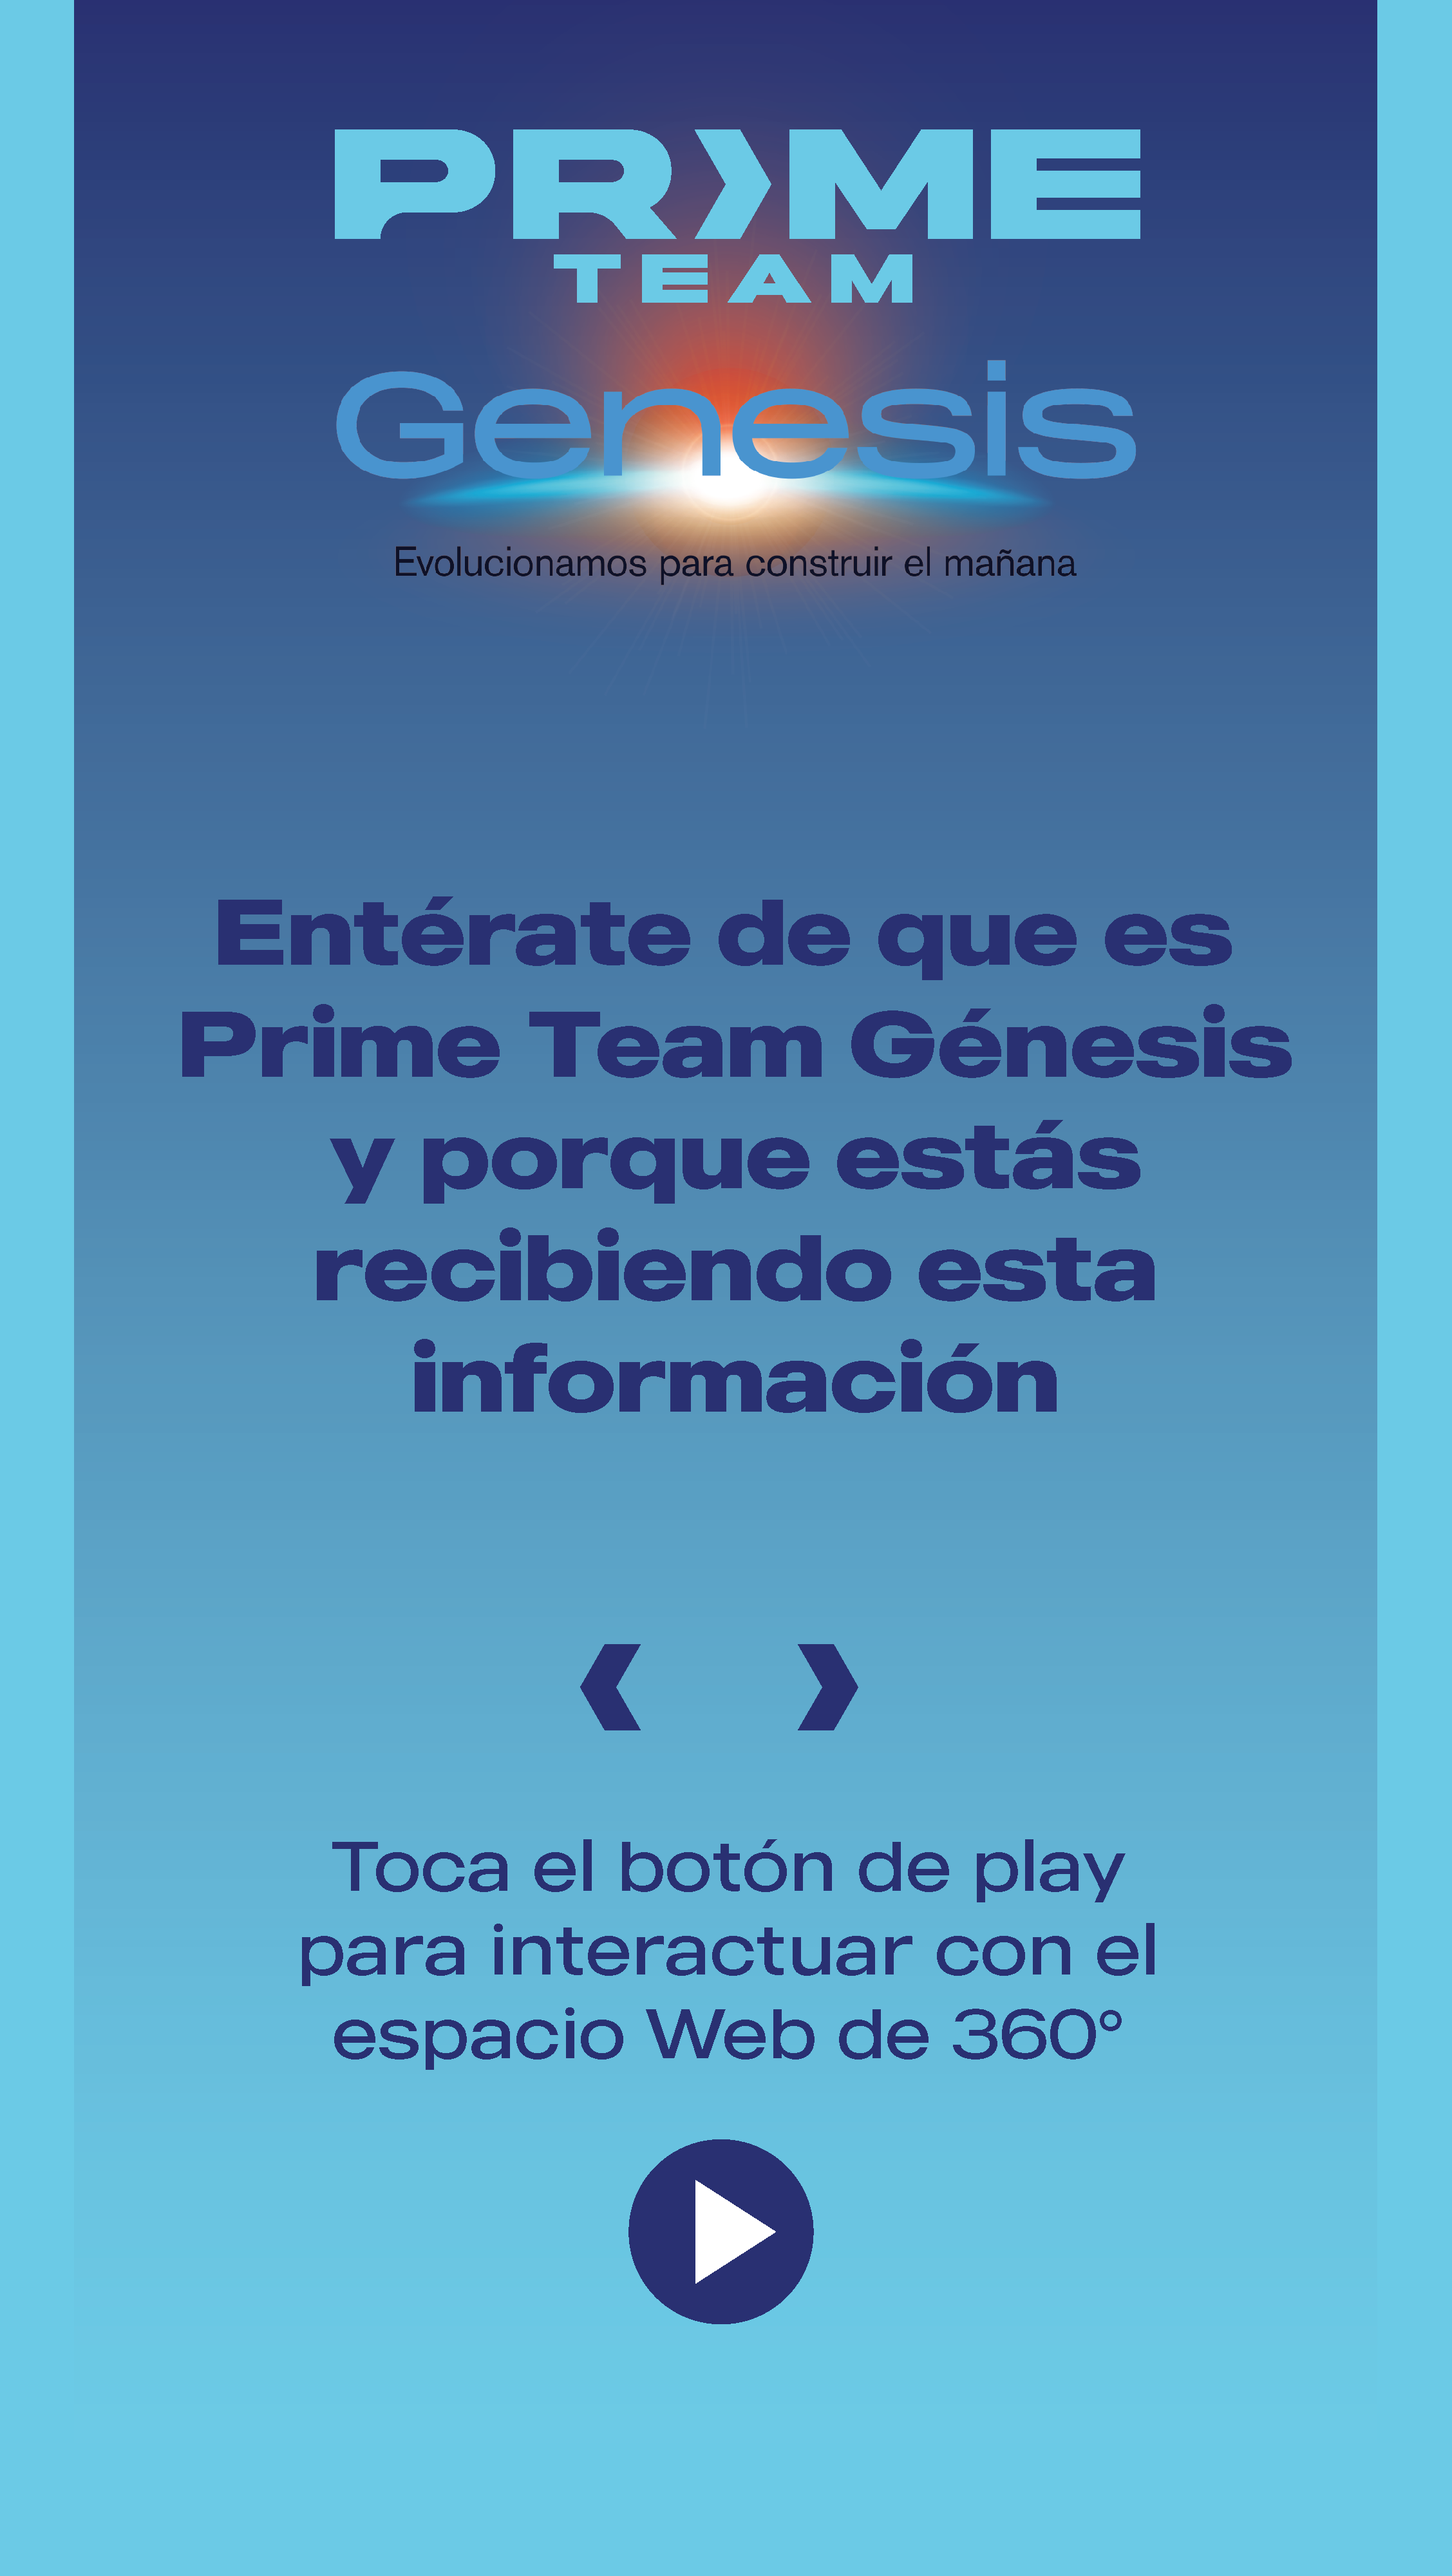
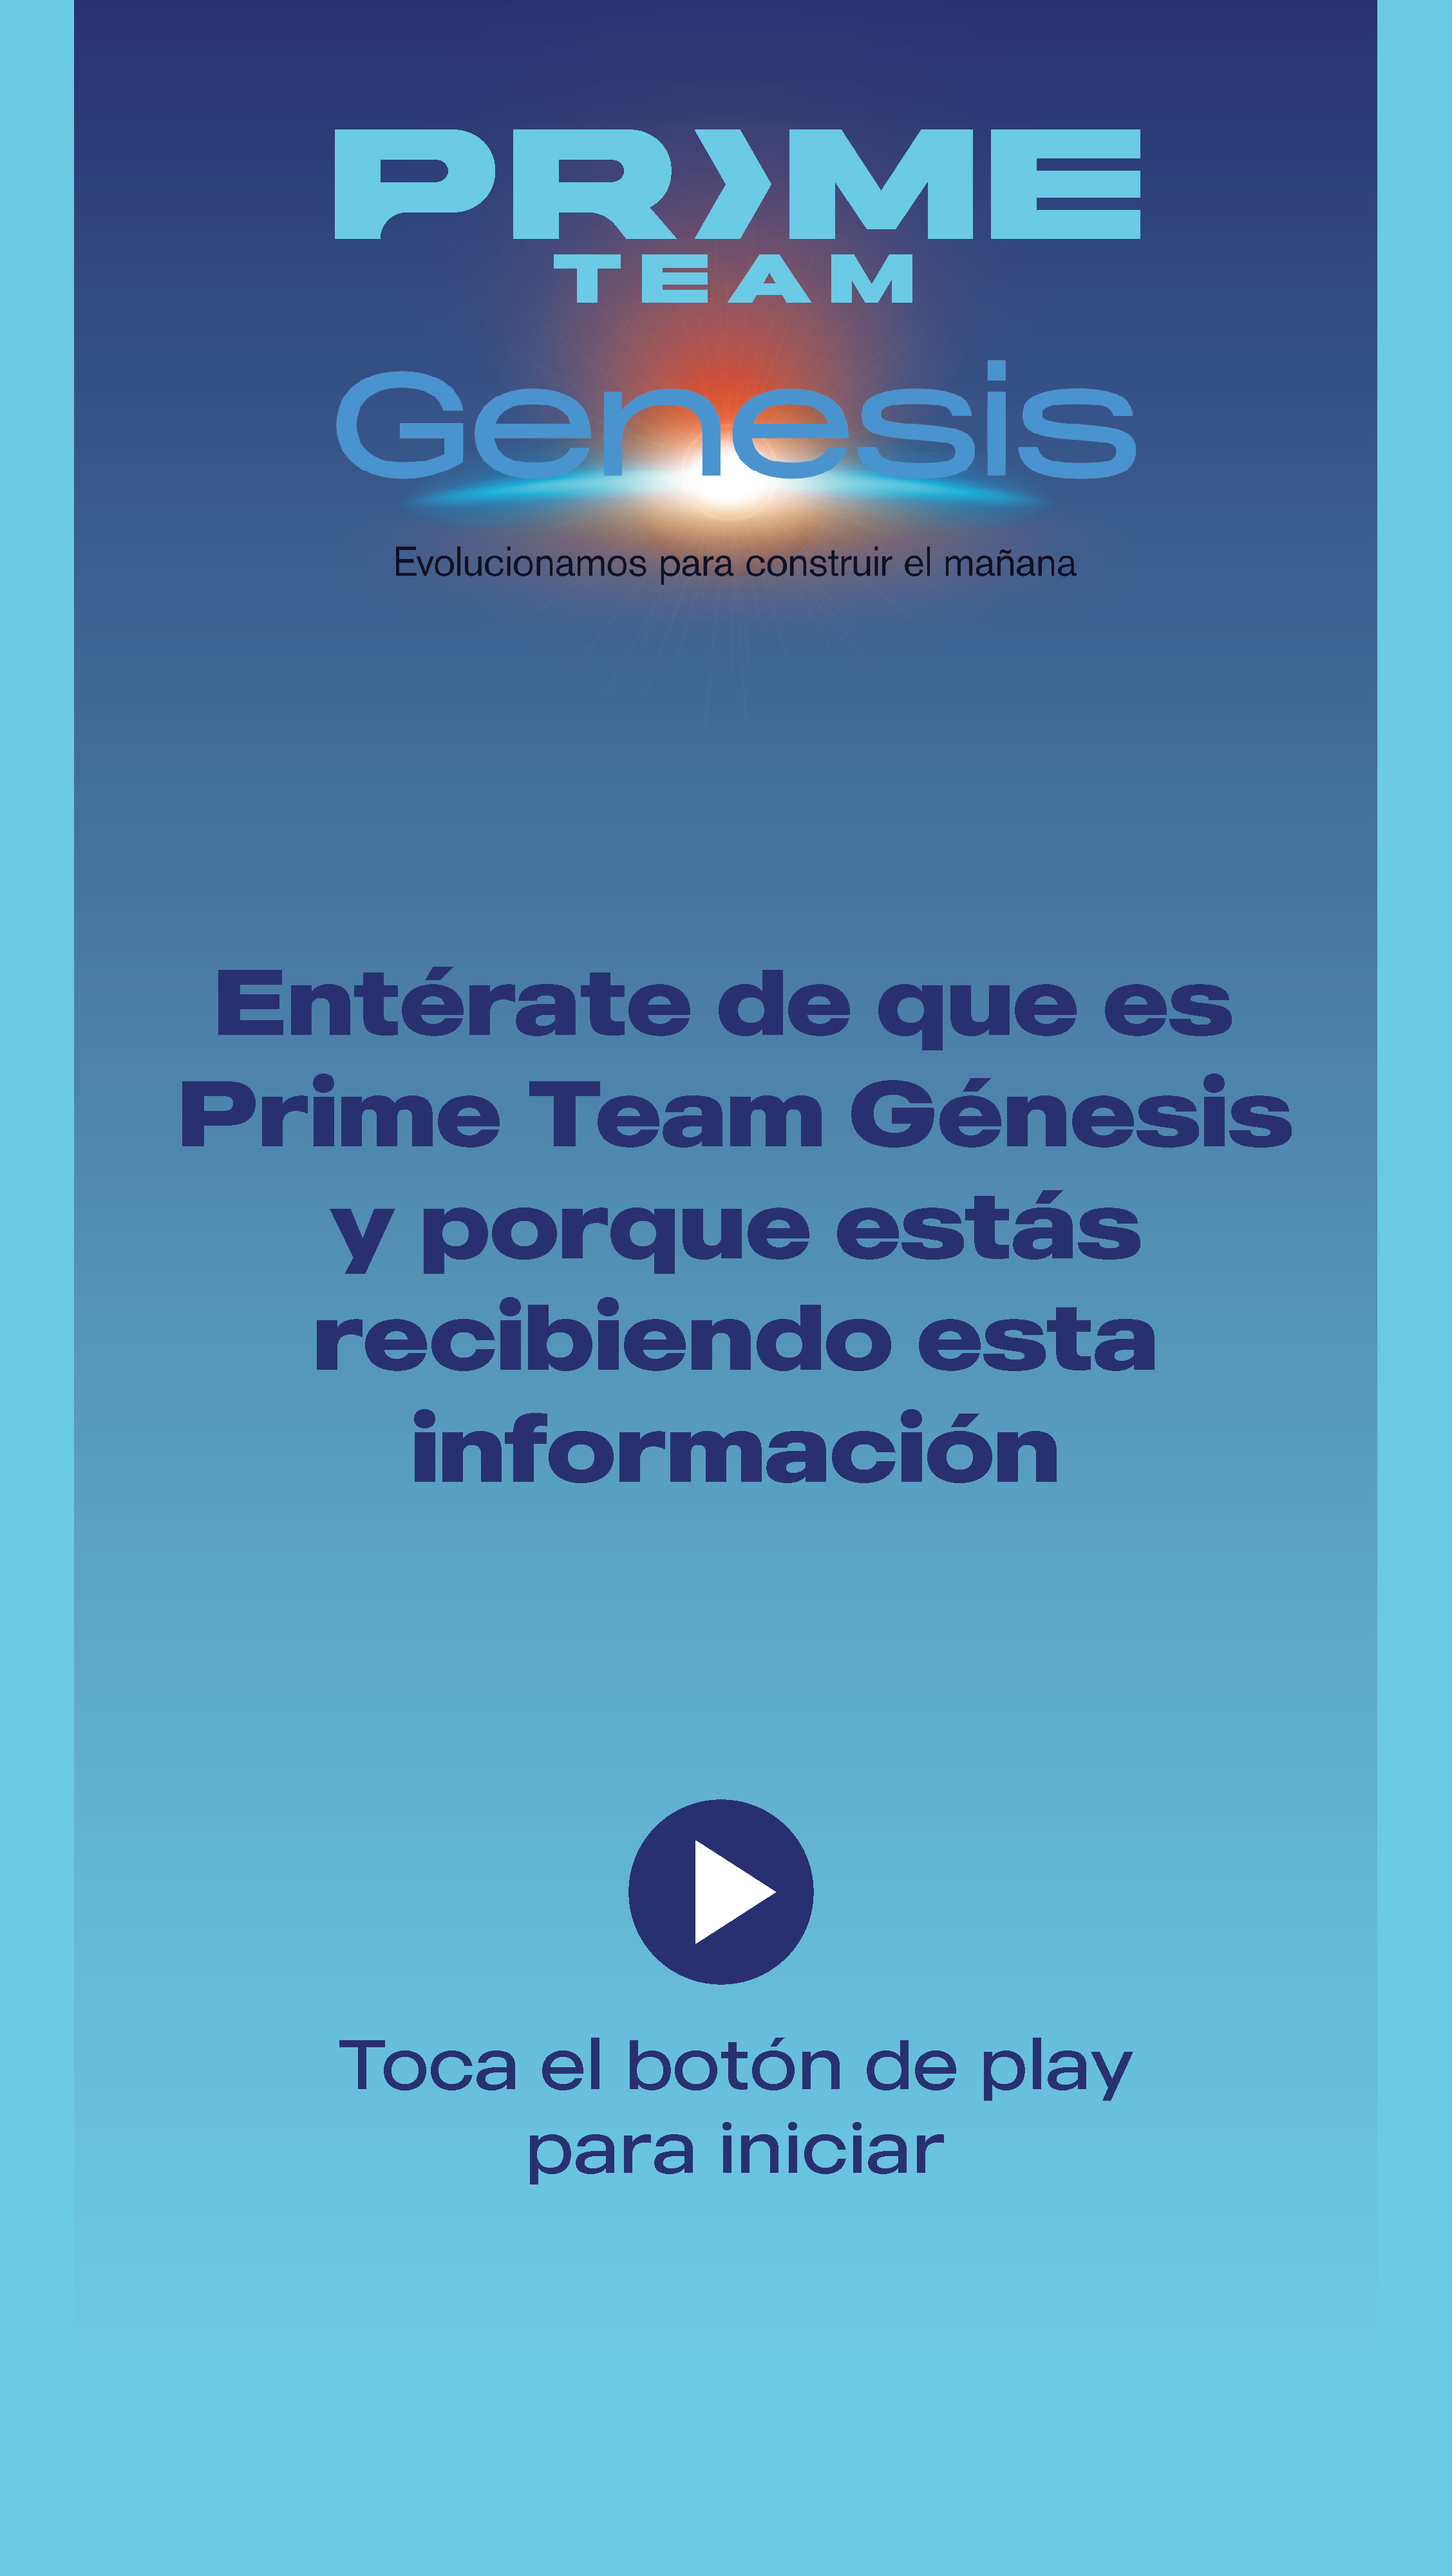
feat: ux improvements

diff --git a/src/App.jsx b/src/App.jsx
@@ -41,6 +41,10 @@ export function App() {
           <img id="play-button" src="play.png" />
           <img id="pantalla-carga" src="pantalla_carga.png" />
           <img id="celular" src="celular.png" />
+          <img id="celular-flechas" src="celular-flechas.png" />
+          <img id="celular-instrucciones" src="celular-instrucciones.png" />
+          <img id="video-titulo" src="back_prime.png" />
+          <img id="panelistas-video-titulo" src="titulo_panelistas_galeria.png" />
           <img id="panelists-button" src="titulo_panelistas.png" />
           <img id="characteristics-title" src="back-equipo.png" />
           <img id="panelists-text" src="nuevo-small_back_panelista.png" />
@@ -67,18 +71,52 @@ export function App() {
         {started && <a-plane
           class="clickable"
           src="#date"
-          position={`0 -0.4 -${DEFAULT_DISTANCE_FROM_USER}`}
+          position={`0.04 -0.2 -${DEFAULT_DISTANCE_FROM_USER}`}
           rotation="0 0 0"
-          scale="1 0.2 1"
+          scale="1.4 0.2 1.4"
           transparent="true"
           material="shader: flat"
           onClick={() => { window.open('https://maps.app.goo.gl/iwQ4uWfBv2cank8i9?g_st=com.google.maps.preview.copy', '_blank'); }}
         ></a-plane>}
 
+        {started && (
+          <a-entity position={`0 -0.45 -${DEFAULT_DISTANCE_FROM_USER - 0.1}`}>
+            <a-plane
+              src="#celular-instrucciones"
+              position="0 -0.2 0"
+              transparent="true"
+              scale="0.5 0.1 0.1"
+              material="shader: flat"
+            >
+            </a-plane>
+            <a-plane
+              src="#celular-flechas"
+              position="0 0 0"
+              transparent="true"
+              scale="0.3 0.05 0.1"
+              material="shader: flat"
+            >
+            </a-plane>
+            <a-entity
+              position="0 0 0.08"
+              animation="property: rotation; from: 0 -45 0; to: 0 45 0; dur: 2000; easing: easeInOutQuad; loop: true; dir: alternate;"
+            >
+              <a-plane
+                src="#celular"
+                position="0 0 -0.05"
+                transparent="true"
+                scale="0.1 0.2 0.1"
+                material="shader: flat"
+              >
+              </a-plane>
+            </a-entity>
+          </a-entity>
+        )}
+
         {started && <a-entity
           id="logo-model"
           hover-animator="duration: 2000; easing: easeInOutQuad;"
-          position={`0 0.1 -${DEFAULT_DISTANCE_FROM_USER}`}
+          position={`0 0.15 -${DEFAULT_DISTANCE_FROM_USER}`}
           scale="1 1 1"
         >
           <a-entity
@@ -104,7 +142,6 @@ export function App() {
           ></a-entity>
         </a-entity>}
 
-
         <a-plane
           class="clickable"
           src="#pantalla-carga"
@@ -121,21 +158,7 @@ export function App() {
             voice.play();
             e.target.setAttribute("scale", "0 0 0")
           }}
-        >
-          <a-entity
-            position="0 -0.15 0.07"
-            animation="property: rotation; from: 0 -45 0; to: 0 45 0; dur: 2000; easing: easeInOutQuad; loop: true; dir: alternate;"
-          >
-            <a-plane
-              src="#celular"
-              position="0 0 -0.05"
-              transparent="true"
-              scale="0.1 0.1 0.1"
-              material="shader: flat"
-            >
-            </a-plane>
-          </a-entity>
-        </a-plane>
+        ></a-plane>
 
 
         {!showPanelist && <a-entity
@@ -177,16 +200,20 @@ export function App() {
 
         {showPanelist && <VideoGallery
           videos={content.videos}
+          titleSrc="#panelistas-video-titulo"
           position={`-${DEFAULT_DISTANCE_FROM_USER} 0 0`}
           rotation="0 90 0"
           scale="1 1 1"
           closeFunction={() => setShowPanelists(false)} />}
 
+          {/* Video Principal */}
+
         <VideoGallery
           videos={[{ src: "#video", autoplay: false }]}
+          titleSrc="#video-titulo"
           position={`${DEFAULT_DISTANCE_FROM_USER} 0 0`}
           rotation="0 -90 0"
-          scale="1 1 1" />
+          scale="1 1 1"/>
 
         {!showCharacteristics && <a-plane
           class="clickable"
@@ -307,11 +334,11 @@ export function App() {
         <a-plane
           src="#ambient2"
           transparent="true"
-          position="-2 2 0"
+          position="-2 1 -1"
           rotation="0 90 0"
           scale="0.25 0.25 0.25"
           material="shader: flat"
-          animation="property: position; to: -1 2 -1; dur: 15000; easing: easeInOutQuad; loop: true; dir: alternate;"
+          animation="property: position; to: -1 1 -1; dur: 15000; easing: easeInOutQuad; loop: true; dir: alternate;"
         ></a-plane>
         <a-plane
           src="#ambient1"
@@ -321,6 +348,15 @@ export function App() {
           scale="0.25 0.25 0.25"
           material="shader: flat"
           animation="property: position; to: 3 1 -1; dur: 15000; easing: easeInOutQuad; loop: true; dir: alternate;"
+        ></a-plane>
+        <a-plane
+          src="#ambient3"
+          transparent="true"
+          position="2 1 1"
+          rotation="0 -90 0"
+          scale="0.5 0.25 0.5"
+          material="shader: flat"
+          animation="property: position; to: 1 0.5 1; dur: 15000; easing: easeInOutQuad; loop: true; dir: alternate;"
         ></a-plane>
       </a-scene>
     </>

diff --git a/src/components/VideoGallery.jsx b/src/components/VideoGallery.jsx
@@ -1,7 +1,7 @@
 import React, { useEffect, useRef, useState } from 'react';
 import 'aframe';
 
-const VideoGallery = ({ videos, position, rotation, scale, closeFunction }) => {
+const VideoGallery = ({ titleSrc, videos, position, rotation, scale, closeFunction }) => {
   const videoRef = useRef(null); // Reference to the video element
 
   const [currentIndex, setCurrentIndex] = useState(0);
@@ -59,12 +59,12 @@ const VideoGallery = ({ videos, position, rotation, scale, closeFunction }) => {
       scale={scale}
     >
       <a-plane
-        src="#light-arrow"
-        position="0 1 0"
-        scale="0.2 0.3 0.2"
-        scale-animator="duration: 500; easing: easeInOutCubic"
+        src={titleSrc}
+        position="0 0.95 0"
+        scale="0.9 0.18 1"
         transparent="true"
         material="shader: flat"
+        scale-animator="duration: 500; easing: easeInOutCubic"
       ></a-plane>
 
       {/* Video */}
